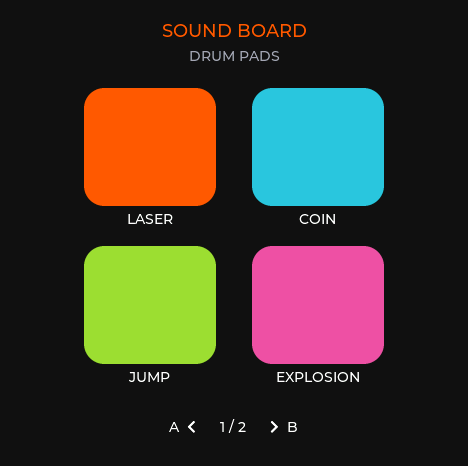
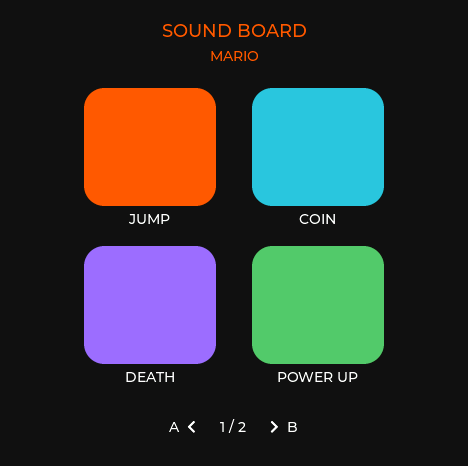
Group Day 9 sounds into game kits

diff --git a/days/day-09-sound-effects/README.md b/days/day-09-sound-effects/README.md
@@ -3,7 +3,7 @@ board: m5stack-stopwatch
 day: 9
 title: Sound Effects Board
 toolchain: Arduino ESP32 3.3.10 + M5Unified 0.2.19 + M5GFX 0.2.26 + LVGL 9.3.0
-summary: "Eight configurable drum pads, two instant page pushers, and sounds made from descriptions or audio files."
+summary: "Two four-pad game sound kits, instant page pushers, and sounds made from descriptions or audio files."
 verification: "Host, compile, injected-device, latency, and framebuffer checks passed; physical sound and control review pending"
 ---
 
@@ -13,8 +13,10 @@ Build a pocket drum machine with four colored pads per page.
 Touch a pad and it sounds immediately.
 Use the left and right pushers to move between pages.
 
-The board has eight slots.
-The defaults fill six of them with Laser, Coin, Jump, Explosion, Power Up, and Blip; the last two are ready for your sounds.
+The board has eight slots grouped as two complete game kits.
+The Mario page has Jump, Coin, Death, and Power Up.
+The Asteroid page has Shoot, Explode, Crash, and its own Power Up.
+The page name sits above the pads so every sound has a clear context.
 
 The durable source is this prompt, [SPEC.md](https://github.com/chantastic/esptember/blob/main/days/day-09-sound-effects/SPEC.md), the machine-readable contract, and its layered acceptance criteria.
 Generated firmware is a disposable candidate.
@@ -43,12 +45,14 @@ The build turns a description into explicit numbers, then renders the whole buff
 
 The defaults use:
 
-- **Laser:** a falling 1,800 Hz to 200 Hz sine sweep with a 300 ms decay.
-- **Coin:** two square-wave notes, 988 Hz then 1,319 Hz.
-- **Jump:** a rising sine sweep shaped by a rounded attack and release.
-- **Explosion:** explicitly seeded noise through a one-pole low-pass filter and exponential decay.
-- **Power Up:** a rising sine sweep with amplitude modulation.
-- **Blip:** a short 720 Hz sine with a fast exponential decay.
+- **Mario · Jump:** a rising 220 Hz to 1,220 Hz sine sweep with a rounded envelope.
+- **Mario · Coin:** two square-wave notes, 988 Hz then 1,319 Hz.
+- **Mario · Death:** four descending square-wave notes with an exponential fade.
+- **Mario · Power Up:** a bright rising four-note triangle-wave arpeggio.
+- **Asteroid · Shoot:** a short 1,600 Hz to 420 Hz electronic shot with a noise click.
+- **Asteroid · Explode:** explicitly seeded noise through a one-pole low-pass filter and exponential decay.
+- **Asteroid · Crash:** a seeded metallic noise burst layered with a falling low tone.
+- **Asteroid · Power Up:** a rising 180 Hz to 1,380 Hz sine sweep with amplitude modulation.
 
 The recipe is deterministic.
 The same settings produce the same PCM hash on every build.
@@ -129,7 +133,8 @@ Localized controls and layout
 - Show four 132 × 118 colored squares in a 2 × 2 grid at the exact bounds in contract.json.
 - Put each short pad label in small text directly underneath its square. Do not put large text or icons inside a pad.
 - Show A with a left pager arrow, the page count, and a right pager arrow with B at the bottom.
-- Page 1 contains Laser, Coin, Jump, and Explosion. Page 2 contains Power Up, Blip, and two visible dim EMPTY slots unless the user configures them.
+- Name the active kit above the grid: MARIO on page 1 and ASTEROID on page 2.
+- Page 1 contains Jump, Coin, Death, and Power Up. Page 2 contains Shoot, Explode, Crash, and a distinct Power Up.
 
 Sound configuration
 
@@ -166,26 +171,26 @@ Never describe reference rendering or injected input as physical proof.
 
 ## Required behavior
 
-- Four colored square pads per page, with short labels underneath.
+- Four colored square pads per page, with short labels underneath and the active game kit named above them.
 - BtnA pages left and BtnB pages right; the footer shows both pager arrows.
 - Pads fire on touch-down and immediately retrigger one voice.
-- Eight configurable slots accept described recipes or supplied audio files.
+- The default Mario and Asteroid kits fill all eight slots; every slot still accepts a described recipe or supplied audio file.
 - Audio is prepared before interaction and meets the measured latency limits in [SPEC.md](https://github.com/chantastic/esptember/blob/main/days/day-09-sound-effects/SPEC.md).
 
 ## Recorded evidence
 
-The revised shared contract validates Stopwatch geometry, calibration ownership, localized pager controls, deterministic state, immediate retriggering, four round-safe pad bounds, and 10,000 generated actions against three disposable reducer shapes.
+The revised shared contract validates Stopwatch geometry, calibration ownership, localized pager controls, both four-sound kit manifests, deterministic state, immediate retriggering, four round-safe pad bounds, and 10,000 generated actions against three disposable reducer shapes.
 A deliberately mutated reducer must fail.
 
-The selected portable core passed 300,065 domain assertions, including deterministic PCM hashes and bounds for all six generated sounds.
-The target build used 914,419 bytes of flash and 31,352 bytes of static RAM, then an application-only update preserved touch-map version 2, generation 2.
+The selected portable core passed 300,080 domain assertions, including deterministic PCM hashes and bounds for all eight generated sounds.
+The target build used 915,363 bytes of flash and 31,384 bytes of static RAM, then an application-only update preserved touch-map version 2, generation 2.
 
-On the attached Stopwatch, all six prepared PCM buffers occupied 94,372 bytes of PSRAM.
-Both physical pusher paths changed page state in about 1.1 ms.
-Across 100 injected LVGL touch-downs, pad-to-speaker-start latency had a 334 µs median, 496 µs 95th percentile, and 1,334 µs maximum—well inside the 30 ms and 50 ms limits.
-Rapid Laser → Coin → Explosion input replaced the active voice immediately, with the replacement starts measured at 272 µs and 288 µs.
+On the attached Stopwatch, all eight prepared PCM buffers occupied 149,498 bytes of PSRAM.
+The injected left and right pusher paths changed page state in 1,242 µs and 1,197 µs.
+Across 100 injected LVGL touch-downs, pad-to-speaker-start latency had a 329 µs median, 347 µs 95th percentile, and 542 µs maximum—well inside the 30 ms and 50 ms limits.
+Rapid Jump → Coin → Mario Power Up input replaced the active voice immediately, with starts measured at 1,223 µs, 426 µs, and 272 µs.
 
-Both empty slots remained silent, all six configured paths started and completed, and 20 two-page round trips left free heap and PSRAM unchanged.
+All eight configured paths started and completed, the Asteroid Crash and Power Up pads resolved independently, and 20 two-page round trips left free heap and PSRAM unchanged.
 The device is reset to page one for hand review.
 Perceived sound quality, physical pusher feel, and physical touch alignment still require direct observation.
 

diff --git a/days/day-09-sound-effects/SPEC.md b/days/day-09-sound-effects/SPEC.md
@@ -6,8 +6,10 @@ Build a fast, two-page drum-pad instrument for the M5Stack Stopwatch.
 Each page shows four colored square pads in a 2 × 2 grid.
 The left and right pushers change pages; touching a pad triggers its sound immediately.
 
-The board has eight configurable slots.
-The default set is Laser, Coin, Jump, Explosion, Power Up, and Blip, followed by two empty slots.
+The board has eight configurable slots arranged as two coherent game-sound kits.
+The Mario page contains Jump, Coin, Death, and Power Up.
+The Asteroid page contains Shoot, Explode, Crash, and Power Up.
+The two Power Up slots have separate recipes appropriate to their page.
 
 ## Shared platform contract
 
@@ -48,14 +50,15 @@ Each page contains four 132 × 118 colored pads arranged at `(84,88)`, `(252,88)
 The pad is the color field; its name appears in small text immediately underneath.
 Do not put large words, icons, focus rings, counters, or instructions inside a pad.
 
-The page title stays above the grid.
+The page title stays above the grid and names the active kit: `MARIO` or `ASTEROID`.
 The footer shows `A ◀`, `page / count`, and `▶ B`.
 All pad corners and text remain inside the radius-226 safe area around `(234,233)`.
 The screen uses rows 0–465 only and leaves no bottom strip.
 
 Use distinct colors with sufficient luminance contrast on the black background.
-The defaults are orange, cyan, lime, magenta, yellow, and blue.
-Empty slots remain visible as dim gray pads labeled `EMPTY` so the grid never changes shape.
+The Mario defaults are orange, cyan, purple, and green.
+The Asteroid defaults are cyan, orange, red, and blue.
+All eight default slots are configured, so both pages remain complete 2 × 2 instruments.
 
 ## Sound configuration
 
@@ -83,7 +86,7 @@ Preserve the original file outside generated build output.
 Reject unreadable input, clips longer than two seconds, decoded data larger than the configured PSRAM budget, and a silent result.
 Do not decode MP3, FLAC, OGG, or resample audio inside a touch callback.
 
-Empty slots are valid.
+Empty slots remain valid for a customized manifest, but the default manifest has none.
 Changing labels, colors, descriptions, or files regenerates a disposable candidate; it does not change the hardware or interaction contract.
 
 ## Fast trigger path
@@ -109,11 +112,11 @@ No single measured trigger may exceed 50 ms.
 
 ## Required scenarios
 
-- **primary flow:** touch pad 1, then complete playback;
-- **immediate retrigger:** touch pad 2 and pad 4 while another clip is active; each replaces it immediately;
+- **primary flow:** trigger Mario Jump, then complete playback;
+- **immediate retrigger:** trigger Mario Coin and Power Up while another clip is active; each replaces it immediately;
 - **pusher paging:** right, left, then wrapping left;
-- **second page sounds:** trigger Power Up and Blip through page 2;
-- **empty slot:** touching an unconfigured slot is a visible press with no audio or play-count change.
+- **Asteroid page:** trigger Shoot, Explode, Crash, and Power Up through page 2;
+- **kit identity:** the visible page title and every pad label match the active page's four-slot manifest.
 
 The JSON contract contains the exact intermediate expected state for every action.
 It is normative when prose and a disposable candidate disagree.

diff --git a/days/day-09-sound-effects/RESULTS.md b/days/day-09-sound-effects/RESULTS.md
@@ -1,7 +1,7 @@
 # Day 09 contract results
 
 The generalized suite was run against three disposable reducer shapes generated from `tests/contract.json`.
-All three passed 70,202 state, scenario, determinism, layout, hardware, control, and generated-sequence assertions.
+All three passed 70,215 state, scenario, determinism, layout, hardware, control, and generated-sequence assertions.
 A fourth candidate with its first transition removed failed as required.
 
 The reference frame was rendered from the contract's declared visual scenario and checked at 468 × 466.
@@ -9,25 +9,25 @@ It is a design oracle, not device proof.
 
 ## Generated candidate · September 24, 2026
 
-The selected disposable state and synthesis core passed 300,065 focused host assertions.
-Those checks cover deterministic nonmutation, immediate retriggering, empty slots, all six PCM hashes and sample bounds, sound-manifest completeness, recipe fields, and the total audio-memory budget.
+The selected disposable state and synthesis core passed 300,080 focused host assertions.
+Those checks cover deterministic nonmutation, immediate retriggering, both complete game kits, all eight PCM hashes and sample bounds, sound-manifest completeness, recipe fields, and the total audio-memory budget.
 
 The complete adapter compiled with Arduino ESP32 3.3.10, M5Unified 0.2.19, M5GFX 0.2.26, and LVGL 9.3.0.
-The application used 914,419 bytes of flash and 31,352 bytes of static RAM.
+The application used 915,363 bytes of flash and 31,384 bytes of static RAM.
 The only build note came from a toolchain object and was not a project warning.
 
 It was written only to the application partition at `0x10000`.
 The device loaded the same `espt-touch` version-2 record at generation 2 before and after installation.
-At startup it prepared all six configured clips into 94,372 bytes of PSRAM before enabling the pads.
+At startup it prepared all eight configured clips into 149,498 bytes of PSRAM before enabling the pads.
 
 The injected-device harness passed:
 
 - corrected 468 × 466 geometry and M5Stack Stopwatch identity;
-- BtnA/left previous-page and BtnB/right next-page paths, measured at 1,077 µs and 1,080 µs;
-- LVGL hit-testing and audio start through 100 injected touch-downs, with a 334 µs median, 496 µs 95th percentile, and 1,334 µs maximum;
-- immediate single-voice replacement: Laser began in 1,223 µs, then Coin and Explosion replaced it in 272 µs and 288 µs;
-- all six prepared PCM paths started and completed;
-- page-two empty slots produced no audio or play-count change;
+- BtnA/left previous-page and BtnB/right next-page paths, measured at 1,242 µs and 1,197 µs;
+- LVGL hit-testing and audio start through 100 injected touch-downs, with a 329 µs median, 347 µs 95th percentile, and 542 µs maximum;
+- immediate single-voice replacement: Jump began in 1,223 µs, then Coin and Mario Power Up replaced it in 426 µs and 272 µs;
+- all eight prepared PCM paths started and completed;
+- the Asteroid Crash and Power Up pads resolved to distinct clips;
 - retained RGB565 capture of both pages; and
 - 20 two-page round trips with unchanged 265,876-byte free heap and 7,352,348-byte free PSRAM.
 

diff --git a/days/day-09-sound-effects/HAND-REVIEW.md b/days/day-09-sound-effects/HAND-REVIEW.md
@@ -12,10 +12,12 @@ Reviewer: ____________________  Date: ____________________
 - [ ] Text and primary values are readable through the round aperture.
 - [ ] Sound, vibration, sensor, radio, network, and persistence behavior claimed by this lesson was physically observed where applicable.
 - [ ] Any failure names itself and offers the documented recovery.
-- [ ] Laser, Coin, Jump, Explosion, Power Up, and Blip are distinct and comfortable at the installed volume.
+- [ ] The MARIO page contains Jump, Coin, Death, and Power Up; all four sounds are distinct and comfortable at the installed volume.
+- [ ] The ASTEROID page contains Shoot, Explode, Crash, and Power Up; all four sounds are distinct and comfortable at the installed volume.
+- [ ] The two Power Up pads sound different enough to fit their respective game kits.
 - [ ] Touching a pad feels immediate and fires on touch-down rather than release.
 - [ ] Triggering several pads quickly replaces the current sound immediately with the newest pad.
-- [ ] The two EMPTY slots on page two are visible but produce no sound or play-count change.
+- [ ] Both pages retain the same four-pad geometry with no empty default slots.
 
 Observed differences from the prompt/spec:
 
